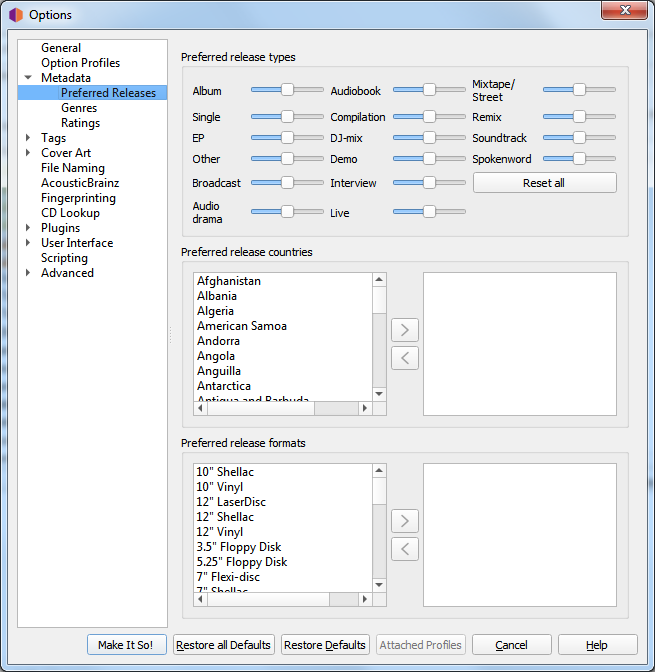
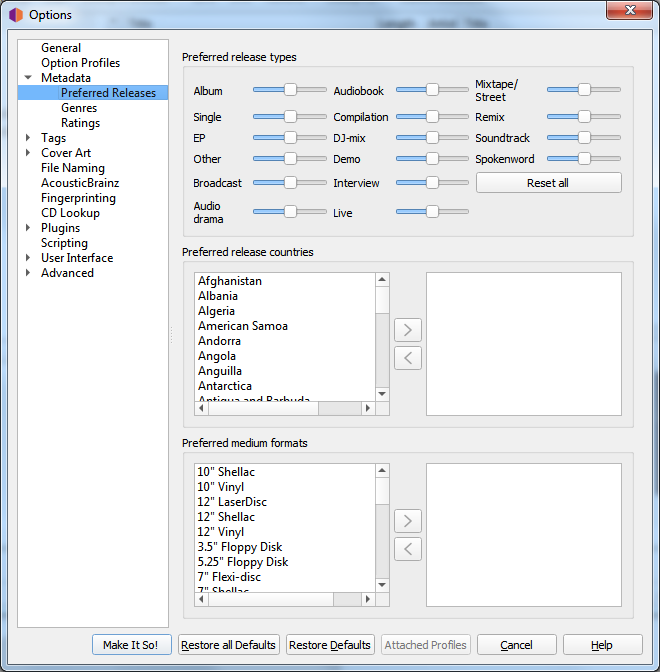
Rename "Preferred release formats" to "Preferred medium formats"

diff --git a/config/options_releases.rst b/config/options_releases.rst
@@ -17,7 +17,7 @@
    Add one or more countries into the list to make Picard prefer matching clusters or files to releases from the chosen countries.
    This list is also used to prioritize files in the "Other Releases" context menu.
 
-**Preferred release formats**
+**Preferred medium formats**
 
    Add one or more formats into the list to make Picard prefer matching clusters or files to releases of the specified format.
    This list is also used to prioritize files in the "Other Releases" context menu.
